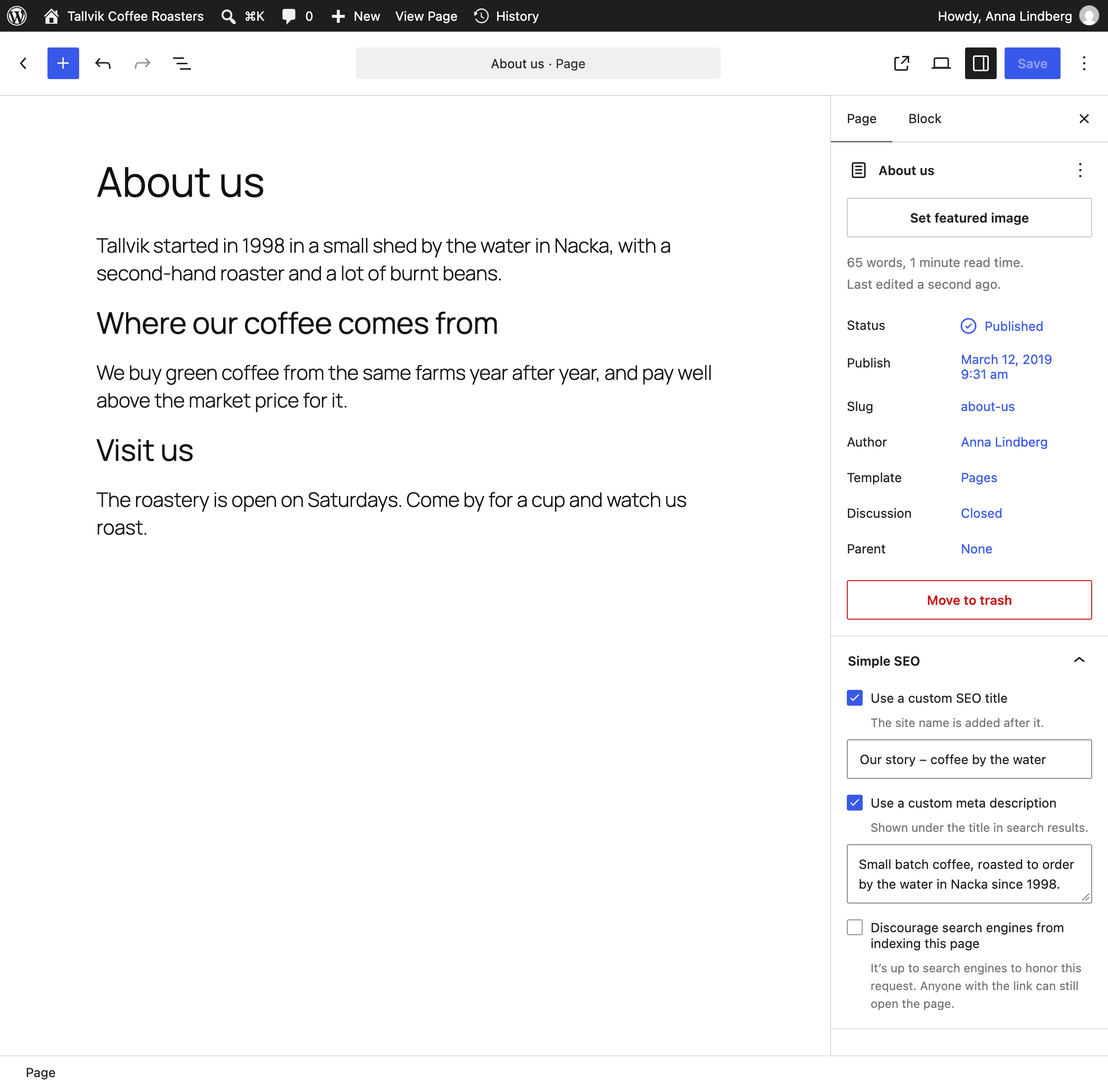
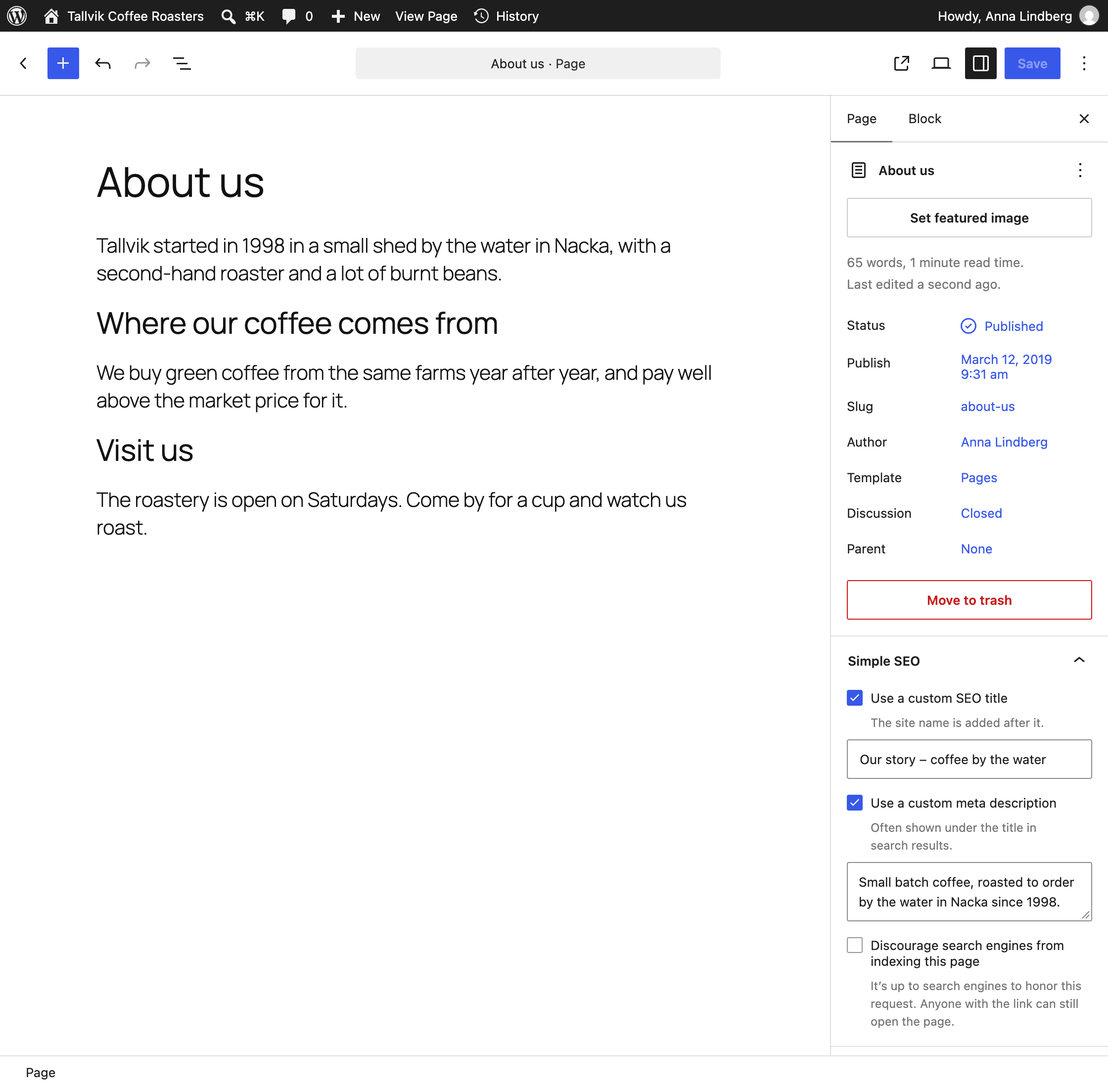
Quieter wording and tip, research doc out of the repo
- Help text and README no longer promise what search engines and apps
  do: "Often shown under the title", links "get" the right tags, no
  llms.txt "for now".
- The Simple History tip is small and grey like help text.
- The SEO research notes moved to the private notes.
- Decision notes in docs and skills no longer name the maintainer.
- Screenshots 1, 4 and 6 retaken.

Changed region(s): [[0.7812, 0.7418, 0.9688, 0.9582]]

diff --git a/build/editor-panel.js b/build/editor-panel.js
@@ -1,2 +1,2 @@
 (()=>{"use strict";const e=window.wp.plugins,s=window.wp.editor,t=window.wp.coreData,i=window.wp.data,o=window.wp.element,l=window.wp.components,n=window.wp.i18n,a=window.ReactJSXRuntime,{otherPlugin:_,simpleHistoryUrl:p,frontPageId:r}=window.simpleSeoEditor||{};function d({label:e,inputLabel:s,help:t,text:i,disabled:n,onChange:_,multiline:p}){const[r,d]=(0,o.useState)(!1),m=!n&&(""!==i||r),c={__nextHasNoMarginBottom:!0,hideLabelFromVision:!0,label:s,value:i,onChange:e=>_({text:e,disabled:!m})};return(0,a.jsxs)(l.Flex,{direction:"column",gap:2,children:[(0,a.jsx)(l.CheckboxControl,{__nextHasNoMarginBottom:!0,label:e,help:t,checked:m,onChange:e=>{d(e),_({text:i,disabled:!e})}}),p?(0,a.jsx)(l.TextareaControl,{...c,className:"simple-seo-autogrow",rows:2}):(0,a.jsx)(l.TextControl,{...c,__next40pxDefaultSize:!0})]})}(0,e.registerPlugin)("simple-seo",{render:function(){const e=(0,i.useSelect)(e=>e(s.store).getCurrentPostType(),[]),m=(0,i.useSelect)(e=>e(s.store).getCurrentPostId(),[]),[c,h]=(0,t.useEntityProp)("postType",e,"meta");if(!c)return null;const u=!c._simple_seo_title_disabled&&""!==c._simple_seo_title||!c._simple_seo_description_disabled&&""!==c._simple_seo_description||!!c._simple_seo_noindex,x=e=>({text:s,disabled:t})=>h({[e]:s,[`${e}_disabled`]:t});return(0,a.jsx)(s.PluginDocumentSettingPanel,{name:"simple-seo",title:(0,n.__)("Simple SEO","simple-seo"),children:(0,a.jsxs)(l.Flex,{direction:"column",gap:4,children:[_&&(0,a.jsx)("p",{className:"components-base-control__help",children:(0,n.sprintf)(/* translators: %s: name of another SEO plugin, like Yoast SEO. */ /* translators: %s: name of another SEO plugin, like Yoast SEO. */
-(0,n.__)("%s is active and handles SEO, so these fields aren’t used.","simple-seo"),_)}),(0,a.jsx)(d,{label:(0,n.__)("Use a custom SEO title","simple-seo"),inputLabel:(0,n.__)("SEO title","simple-seo"),help:m===r?(0,n.__)("Used as the whole title of the front page.","simple-seo"):(0,n.__)("The site name is added after it.","simple-seo"),text:c._simple_seo_title,disabled:c._simple_seo_title_disabled,onChange:x("_simple_seo_title")}),(0,a.jsx)(d,{label:(0,n.__)("Use a custom meta description","simple-seo"),inputLabel:(0,n.__)("Meta description","simple-seo"),help:(0,n.__)("Shown under the title in search results.","simple-seo"),text:c._simple_seo_description,disabled:c._simple_seo_description_disabled,onChange:x("_simple_seo_description"),multiline:!0}),(0,a.jsx)(l.CheckboxControl,{__nextHasNoMarginBottom:!0,label:(0,n.__)("Discourage search engines from indexing this page","simple-seo"),help:(0,n.__)("It’s up to search engines to honor this request. Anyone with the link can still open the page.","simple-seo"),checked:!!c._simple_seo_noindex,onChange:e=>h({_simple_seo_noindex:e})}),p&&u&&(0,a.jsx)("p",{className:"components-base-control__help",children:(0,o.createInterpolateElement)((0,n.__)("Tip: <a>Simple History</a> logs every change to these fields.","simple-seo"),{a:(0,a.jsx)("a",{href:p})})})]})})}})})();
+(0,n.__)("%s is active and handles SEO, so these fields aren’t used.","simple-seo"),_)}),(0,a.jsx)(d,{label:(0,n.__)("Use a custom SEO title","simple-seo"),inputLabel:(0,n.__)("SEO title","simple-seo"),help:m===r?(0,n.__)("Used as the whole title of the front page.","simple-seo"):(0,n.__)("The site name is added after it.","simple-seo"),text:c._simple_seo_title,disabled:c._simple_seo_title_disabled,onChange:x("_simple_seo_title")}),(0,a.jsx)(d,{label:(0,n.__)("Use a custom meta description","simple-seo"),inputLabel:(0,n.__)("Meta description","simple-seo"),help:(0,n.__)("Often shown under the title in search results.","simple-seo"),text:c._simple_seo_description,disabled:c._simple_seo_description_disabled,onChange:x("_simple_seo_description"),multiline:!0}),(0,a.jsx)(l.CheckboxControl,{__nextHasNoMarginBottom:!0,label:(0,n.__)("Discourage search engines from indexing this page","simple-seo"),help:(0,n.__)("It’s up to search engines to honor this request. Anyone with the link can still open the page.","simple-seo"),checked:!!c._simple_seo_noindex,onChange:e=>h({_simple_seo_noindex:e})}),p&&u&&(0,a.jsx)("p",{className:"simple-seo-tip",children:(0,o.createInterpolateElement)((0,n.__)("Tip: <a>Simple History</a> logs every change to these fields.","simple-seo"),{a:(0,a.jsx)("a",{href:p})})})]})})}})})();

diff --git a/.claude/skills/visual-check/capture-screenshots.js b/.claude/skills/visual-check/capture-screenshots.js
@@ -18,9 +18,9 @@
 async ( page ) => {
 	const WP_ENV = 'http://localhost:8315';
 	const CLASSIC = 'http://wp-playground-classiceditor.test:8314';
-	const WP_ENV_PAGE = 160; // "About us" from seed.php on wp-env.
-	const WP_ENV_QUICK_EDIT = 157; // "Our coffees", opened in Quick Edit in shot 2.
-	const CLASSIC_PAGE = 109; // "About us" from seed.php on the Classic Editor site.
+	const WP_ENV_PAGE = 180; // "About us" from seed.php on wp-env.
+	const WP_ENV_QUICK_EDIT = 177; // "Our coffees", opened in Quick Edit in shot 2.
+	const CLASSIC_PAGE = 119; // "About us" from seed.php on the Classic Editor site.
 	const X = 160; // Right of the admin menu.
 	const WIDTH = 1120;
 

diff --git a/js/editor-panel.js b/js/editor-panel.js
@@ -159,7 +159,7 @@ function SimpleSeoPanel() {
 					) }
 					inputLabel={ __( 'Meta description', 'simple-seo' ) }
 					help={ __(
-						'Shown under the title in search results.',
+						'Often shown under the title in search results.',
 						'simple-seo'
 					) }
 					text={ meta._simple_seo_description }
@@ -185,7 +185,7 @@ function SimpleSeoPanel() {
 				/>
 
 				{ simpleHistoryUrl && usesFields && (
-					<p className="components-base-control__help">
+					<p className="simple-seo-tip">
 						{ createInterpolateElement(
 							__(
 								'Tip: <a>Simple History</a> logs every change to these fields.',

diff --git a/.claude/skills/generating-banner/banner.html b/.claude/skills/generating-banner/banner.html
@@ -1,6 +1,6 @@
 <!doctype html>
 <!-- WordPress.org banner for Simple SEO. Rendered by render.js at 772x250 (1x and 2x).
-     Option C from the 2026-09-25 design canvas, picked by Pär after he asked for
+     Option C from the 2026-09-25 design canvas, picked after a request for
      something simpler: the name and the icon's search-result card on flat icon yellow.
      The card bleeds off the bottom edge on purpose. -->
 <html>

diff --git a/src/classic-editor.php b/src/classic-editor.php
@@ -64,7 +64,7 @@ function meta_box( WP_Post $post ): void {
 	text_field( 'title', __( 'Use a custom SEO title', 'simple-seo' ), __( 'SEO title', 'simple-seo' ), $title_on, $title, title_help( $post->ID ) );
 
 	[ $description_on, $description ] = description_field( $post->ID );
-	text_field( 'description', __( 'Use a custom meta description', 'simple-seo' ), __( 'Meta description', 'simple-seo' ), $description_on, $description, __( 'Shown under the title in search results.', 'simple-seo' ), true );
+	text_field( 'description', __( 'Use a custom meta description', 'simple-seo' ), __( 'Meta description', 'simple-seo' ), $description_on, $description, __( 'Often shown under the title in search results.', 'simple-seo' ), true );
 
 	if ( 'page' === $post->post_type ) {
 		text_field(
@@ -88,7 +88,7 @@ function meta_box( WP_Post $post ): void {
 
 	if ( $tip_url && uses_seo_fields( $post->ID ) ) {
 		printf(
-			'<p class="description">%s</p>',
+			'<p class="description simple-seo-tip">%s</p>',
 			sprintf(
 				/* translators: %s: link to the Simple History plugin. */
 				esc_html__( 'Tip: %s logs every change to these fields.', 'simple-seo' ),

diff --git a/src/admin.php b/src/admin.php
@@ -62,6 +62,16 @@ function autogrow_css( string $selector ): string {
 }
 
 /**
+ * CSS for the Simple History tip: small and grey like help text, with a grey link, so it
+ * doesn't compete with the fields.
+ *
+ * @param string $selector The tip's selector.
+ */
+function tip_css( string $selector ): string {
+	return "{$selector} { margin: 0; font-size: 12px; color: #757575; } {$selector} a { color: inherit; }";
+}
+
+/**
  * A few lines of CSS for the Classic box and Quick Edit, on the screens that have them.
  *
  * @param string $hook_suffix The current admin page.
@@ -84,6 +94,6 @@ function enqueue_admin_css( string $hook_suffix ): void {
 		.column-simple_seo .simple-seo-label { color: #646970; }
 		.column-simple_seo .simple-seo-title { font-weight: 600; }
 		.column-simple_seo .dashicons-hidden { font-size: 16px; width: 16px; height: 16px; vertical-align: text-bottom; }
-		' . autogrow_css( '#simple-seo textarea' )
+		' . autogrow_css( '#simple-seo textarea' ) . ' ' . tip_css( '#simple-seo .simple-seo-tip' )
 	);
 }

diff --git a/src/block-editor.php b/src/block-editor.php
@@ -46,8 +46,9 @@ function enqueue_editor_panel(): void {
 
 	wp_set_script_translations( 'simple-seo-editor-panel', 'simple-seo' );
 
-	// The description grows with its text (field-sizing, where supported; elsewhere it scrolls).
+	// The description grows with its text (field-sizing, where supported; elsewhere it scrolls),
+	// and the Simple History tip looks like help text, in grey with a grey link.
 	wp_register_style( 'simple-seo-editor-panel', false, [], SIMPLE_SEO_VERSION );
 	wp_enqueue_style( 'simple-seo-editor-panel' );
-	wp_add_inline_style( 'simple-seo-editor-panel', autogrow_css( '.simple-seo-autogrow textarea' ) );
+	wp_add_inline_style( 'simple-seo-editor-panel', autogrow_css( '.simple-seo-autogrow textarea' ) . ' ' . tip_css( '.simple-seo-tip' ) );
 }

diff --git a/src/simple-history.php b/src/simple-history.php
@@ -1,6 +1,6 @@
 <?php
 /**
- * Simple History (https://simple-history.com/), Pär's other plugin: log changes to the SEO fields.
+ * Simple History (https://simple-history.com/), a plugin by the same author: log changes to the SEO fields.
  *
  * Nothing here runs unless Simple History is active. Without it, the editor fields show one
  * discreet tip to users who can install plugins.

diff --git a/build/editor-panel.asset.php b/build/editor-panel.asset.php
@@ -9,5 +9,5 @@
 		'wp-i18n',
 		'wp-plugins'
 	),
-	'version' => 'cc689ac30a7188e28642'
+	'version' => '094d75bf49ebc7ac4f5c'
 );

diff --git a/CLAUDE.md b/CLAUDE.md
@@ -4,21 +4,21 @@ This file provides guidance to Claude Code (claude.ai/code) when working with co
 
 ## What this is
 
-Simple SEO is a small WordPress plugin by Pär (eskapism), on WordPress.org at https://wordpress.org/plugins/simple-seo/ (slug `simple-seo`, about 300 active installs). It went unreleased from 0.3.4 (October 2012) until 0.3.5 (2026-09-24), the first release of the revival. Private notes (the todo list, drafts, plans) live in Pär's Obsidian vault and are linked into the repo by `scripts/setup-private-docs.sh` as `todo.md`, `todos/` and `CLAUDE.private.md` (all git-ignored). Contributors can ignore them. Never put strategy, site plans or business details in tracked files; they go in those private files.
+Simple SEO is a small WordPress plugin by eskapism, on WordPress.org at https://wordpress.org/plugins/simple-seo/ (slug `simple-seo`, about 300 active installs). It went unreleased from 0.3.4 (October 2012) until 0.3.5 (2026-09-24), the first release of the revival. Private notes (the todo list, drafts, plans) live in the maintainer's Obsidian vault and are linked into the repo by `scripts/setup-private-docs.sh` as `todo.md`, `todos/` and `CLAUDE.private.md` (all git-ignored). Contributors can ignore them. Never put strategy, site plans or business details in tracked files; they go in those private files.
 
 Goals for the revival: a deliberately tiny SEO plugin (a few fields per post, no settings maze, no upsells), working on modern WordPress and PHP, and a friendly home for existing users.
 
-Principles for everything we build (Pär, 2026-09-25):
+Principles for everything we build (2026-09-25):
 
-- **Fast.** No extra SQL queries on the front end: read post meta only for the queried object (the main `WP_Query` already primes the meta cache), prime caches in bulk where lists are involved (as `get_pages` does), no settings page of our own. One exception to "no autoloaded options" (Pär, 2026-09-25): `simple_seo_share_image`, a few bytes, autoloaded so the front end reads it with 0 queries (a non-autoloaded option would cost a query on every page). Load admin CSS/JS only on the editor screens.
+- **Fast.** No extra SQL queries on the front end: read post meta only for the queried object (the main `WP_Query` already primes the meta cache), prime caches in bulk where lists are involved (as `get_pages` does), no settings page of our own. One exception to "no autoloaded options" (2026-09-25): `simple_seo_share_image`, a few bytes, autoloaded so the front end reads it with 0 queries (a non-autoloaded option would cost a query on every page). Load admin CSS/JS only on the editor screens.
 - **Not in the way.** No nags, notices, dashboards, or upsells. Nothing on screens where the fields aren't needed.
 - **Nice to use.** Few fields, clear labels, sensible defaults.
-- **Built for 2026 search.** GEO is mostly plain SEO; no llms.txt, meta keywords or AI scores. Evidence and scope in [`docs/seo-2026-research.md`](docs/seo-2026-research.md).
+- **Built for 2026 search.** GEO is mostly plain SEO; no llms.txt, meta keywords or AI scores. Evidence and scope in the private `todos/seo-2026-research.md`.
 - **AI friendly, not AI first.** Fields are registered post meta exposed over REST, so WP-CLI, the REST API and AI tools can read and write them. No AI-specific features that cost anything for people who don't use them.
 
 ## History
 
-This git repo was created on 2026-09-24 by replaying the WordPress.org SVN trunk history (r279243 to r607674) into git with the original authors, dates, and messages. Git tags `0.1` and `0.3.1` to `0.3.4` point at the matching trunk commits. SVN is still the release channel; GitHub (`bonny/WordPress-Simple-SEO`, renamed from `simple-seo` on 2026-09-26 to match Pär's other plugin repos; private for now) is the source of truth for development.
+This git repo was created on 2026-09-24 by replaying the WordPress.org SVN trunk history (r279243 to r607674) into git with the original authors, dates, and messages. Git tags `0.1` and `0.3.1` to `0.3.4` point at the matching trunk commits. SVN is still the release channel; GitHub (`bonny/WordPress-Simple-SEO`, renamed from `simple-seo` on 2026-09-26 to match the other eskapism plugin repos; private for now) is the source of truth for development.
 
 How old the SEO plugins are, which still live, and their installs and downloads: [`docs/seo-plugin-history.md`](docs/seo-plugin-history.md). The readme's "seven weeks before Yoast SEO" line rests on it.
 
@@ -29,13 +29,13 @@ Released: 0.3.5. `main` holds unreleased 1.0 work.
 - `simple-seo.php` is a bootstrap that must stay parseable by PHP 5.6 (WordPress before 5.2 ignores "Requires PHP" and installs updates anyway). Below WordPress 6.6 or PHP 7.4 it shows an admin notice linking the 0.3.5 zip and loads nothing else. Otherwise it requires the files in `src/`.
 - `src/` is namespaced (`SimpleSEO\`; no other plugin on WordPress.org declares it, checked 2026-09-25 with a case-insensitive regex search of all 76,734 plugins on veloria.dev, API in `PeterBooker/veloria` `docs/api.md`), PHP 7.4 syntax, one file per concern: `meta.php` (fields and getters), `frontend.php` (head output, menu label), `classic-editor.php` (the meta box, saving), `block-editor.php` (loads the panel), `list-table.php` (column and Quick Edit). Keep it tight: functions, no classes or containers until something needs them. YAGNI for features. Style rules (braces not `if (): endif;`, how to output HTML) are in the `php-code-style` skill.
 - Post meta keys:
-  - `_simple_seo_title`, `_simple_seo_description` (strings), their `_simple_seo_title_disabled` / `_simple_seo_description_disabled` flags (boolean, missing = on) and `_simple_seo_noindex` (boolean), registered with `register_post_meta()` and shown in REST in the `edit` context only (Pär, 2026-09-25: "leak as little as possible"). Anonymous requests see none of them; use `?context=edit` with an application password to read them. REST writes need `edit_post`. Read them through `SimpleSEO\get_title()`, `get_description()` and `is_noindex()`, never with raw `get_post_meta()`.
+  - `_simple_seo_title`, `_simple_seo_description` (strings), their `_simple_seo_title_disabled` / `_simple_seo_description_disabled` flags (boolean, missing = on) and `_simple_seo_noindex` (boolean), registered with `register_post_meta()` and shown in REST in the `edit` context only (2026-09-25: "leak as little as possible"). Anonymous requests see none of them; use `?context=edit` with an application password to read them. REST writes need `edit_post`. Read them through `SimpleSEO\get_title()`, `get_description()` and `is_noindex()`, never with raw `get_post_meta()`.
   - Pre-1.0 title: `_simple_seo_use_custom_page_title` (0/1) and `_simple_seo_custom_page_title_value`. Existing sites depend on it, so `get_title()` falls back to it. Any write to `_simple_seo_title` (editor, REST, WP-CLI) deletes the old pair. No bulk migration, no option to track one.
-  - Menu label: `_simple_seo_use_custom_menu_label` (0/1) and `_simple_seo_custom_menu_label_value`, unchanged. Kept for existing users, pages only, Classic meta box only (Pär, 2026-09-25).
-- Link previews (`src/link-previews.php`): Open Graph + `twitter:card` on posts, pages, the blog page and the front page (not archives or search), from the SEO title, description and featured image. On by default, no setting (Pär, 2026-09-25). Turns Jetpack's Open Graph off while ours are on.
-- Settings (`src/settings.php`): a "Simple SEO" section on Settings → General via the Settings API (Pär: looks like core, but users must see it's from our plugin, hence the section heading and "From the Simple SEO plugin."). One field, "Default share image", with the media library like core's Site Icon (`build/share-image-field.js`). Stored as `{ id, url, width, height, alt }` so link previews need no queries; refreshed when that attachment's metadata or alt text changes, removed when it's deleted. Used in link previews when a post has no featured image.
-- Simple History (`src/simple-history.php`, `src/class-simple-history-logger.php`): when it's active, changes to the fields are logged as one "Updated the SEO for …" event per post and request (captured before our keys are written, logged on `shutdown`), with old and new values, each checkbox and its text logged separately (Pär, 2026-09-26: ticking a box on kept text shows "Use a custom SEO title: No → Yes", not the text as new). Action links under the event (`get_action_links()`, Simple History 5.24+): Edit/View <type> and All <types>, following Simple History's `action-links` skill (plain title in the message, no revisions link). Changes of the default share image are logged too (set, changed, removed; not the refresh after an alt-text edit), with Simple History 5.32+'s image diff (size `small`, the default overflows) and a "General settings" link. The logger class is only loaded from `register_simple_history_logger()`, after checking for Simple History 4.0+'s `Logger` class (as CMS Tree Page View does). PHPStan knows the Simple History classes from `tests/phpstan/simple-history-stubs.php`. Without Simple History: one tip line in the editor fields, for users who can install plugins only.
-- Hooks (Pär: "be a nice plugin", let developers modify what we output): filters prefixed `simple_seo_` on every output value, applied right before output, each documented in core's hook docblock style. List and examples in [`docs/hooks.md`](docs/hooks.md); keep it up to date when adding one. Filters on the value, not settings; no actions of our own unless something needs one.
+  - Menu label: `_simple_seo_use_custom_menu_label` (0/1) and `_simple_seo_custom_menu_label_value`, unchanged. Kept for existing users, pages only, Classic meta box only (2026-09-25).
+- Link previews (`src/link-previews.php`): Open Graph + `twitter:card` on posts, pages, the blog page and the front page (not archives or search), from the SEO title, description and featured image. On by default, no setting (2026-09-25). Turns Jetpack's Open Graph off while ours are on.
+- Settings (`src/settings.php`): a "Simple SEO" section on Settings → General via the Settings API (looks like core, but users must see it's from our plugin, hence the section heading and "From the Simple SEO plugin."). One field, "Default share image", with the media library like core's Site Icon (`build/share-image-field.js`). Stored as `{ id, url, width, height, alt }` so link previews need no queries; refreshed when that attachment's metadata or alt text changes, removed when it's deleted. Used in link previews when a post has no featured image.
+- Simple History (`src/simple-history.php`, `src/class-simple-history-logger.php`): when it's active, changes to the fields are logged as one "Updated the SEO for …" event per post and request (captured before our keys are written, logged on `shutdown`), with old and new values, each checkbox and its text logged separately (2026-09-26: ticking a box on kept text shows "Use a custom SEO title: No → Yes", not the text as new). Action links under the event (`get_action_links()`, Simple History 5.24+): Edit/View <type> and All <types>, following Simple History's `action-links` skill (plain title in the message, no revisions link). Changes of the default share image are logged too (set, changed, removed; not the refresh after an alt-text edit), with Simple History 5.32+'s image diff (size `small`, the default overflows) and a "General settings" link. The logger class is only loaded from `register_simple_history_logger()`, after checking for Simple History 4.0+'s `Logger` class (as CMS Tree Page View does). PHPStan knows the Simple History classes from `tests/phpstan/simple-history-stubs.php`. Without Simple History: one tip line in the editor fields, for users who can install plugins only.
+- Hooks ("be a nice plugin", let developers modify what we output): filters prefixed `simple_seo_` on every output value, applied right before output, each documented in core's hook docblock style. List and examples in [`docs/hooks.md`](docs/hooks.md); keep it up to date when adding one. Filters on the value, not settings; no actions of our own unless something needs one.
 - When another SEO plugin is active (`active_seo_plugin()`: Yoast SEO, Rank Math, All in One SEO, SEOPress, The SEO Framework, detected by constants), none of the head output below is added, and the editor fields say which plugin is in charge. The menu label keeps working. Anything new that outputs SEO tags or touches the sitemap must check it too.
 - Front end, reading meta only for the queried post (already cached by the main query):
   - Title: the `single_post_title` filter replaces the post's part, and core adds " – Site name" (this also covers old themes calling `wp_title()`). A static front page never calls `single_post_title`, so `document_title_parts` makes its SEO title the whole title (tagline dropped), and a `wp_title` filter does the same for old themes.
@@ -44,11 +44,11 @@ Released: 0.3.5. `main` holds unreleased 1.0 work.
   - Sitemap: noindexed posts are left out of core's `wp-sitemap.xml` (`wp_sitemaps_posts_query_args`). The noindex meta's sanitize callback stores it as `'1'` or `''`, which the query relies on.
   - The menu label only affects `get_pages()` / `wp_list_pages()`. That includes the Page List block (`wp-includes/blocks/page-list.php` calls `get_pages()`), which an empty Navigation block falls back to: WordPress creates a `wp_navigation` post containing `<!-- wp:page-list /-->` (verified in Twenty Twenty-Three on the php74 site). It does not reach classic menus or Navigation blocks with hand-picked Page Link blocks, which store their own labels.
 - Block editor: `src/block-editor.php` loads `build/editor-panel.js` (source `js/editor-panel.js`) on the post edit screen only. A "Simple SEO" `PluginDocumentSettingPanel` made of core components, reading and writing the meta with `useEntityProp`, so it saves with the post. Same checkbox + text pattern as the Classic box. It renders nothing for post types without `custom-fields` support. Keep it looking like core: stable `@wordpress/components` only (`__experimental*` fails lint), core wording and spacing, one short help line per field, the other-plugin message as a plain help paragraph (core panels don't use Notices). Pass only changed keys to `setMeta()` (meta edits are merged). Checkbox state follows the meta, local state only for "ticked but empty", so undo works. Keep `__nextHasNoMarginBottom` / `__next40pxDefaultSize` until the floor is WordPress 7.0 (default there, warnings without them on 6.7–6.9); never pass `__next40pxDefaultSize` to `TextareaControl`. Reviewed against WP 7.1 and Gutenberg trunk on 2026-09-25: no deprecated APIs, and DataForm isn't usable by plugins yet.
-- Naming (Pär, 2026-09-26, after a UX and an art director review): the block editor panel and the Classic box are "Simple SEO", so users see where they come from; the list column and the Quick Edit group are "SEO", where space is tight. Help text is one line per field (`src/admin.php`: the title help says "whole title" on the static front page, the noindex checkbox and help follow core's Settings → Reading wording, since noindex is a request search engines may ignore: "Discourage search engines from indexing this page" / "It's up to search engines to honor this request. Anyone with the link can still open the page."). The Simple History tip only shows on posts that use the fields.
-- Posts lists (`src/list-table.php`): an "SEO" column right after the title (Pär, 2026-09-26: it's related to the title) (what's used: "Search engines discouraged" first, then "Title:" and "Description:" lines with a muted label (the title text semibold, 600), so each row reads on its own; switched-off text greyed out as "Title (off):" so saved values never seem to vanish; — when nothing is set. Pär picked this on 2026-09-26 from a mockup comparison) and the same checkbox + text fields in Quick Edit, filled by `build/quick-edit.js` from JSON the column keeps in a hidden element. Quick Edit posts the Classic box's field names, so `save_post()` in `classic-editor.php` saves both; Bulk Edit doesn't include them, so it can't touch them. The list query has already loaded the meta: no extra queries. Which post types: `has_seo_fields()` in `meta.php`, shared with the box and the panel.
+- Naming (2026-09-26, after a UX and an art director review): the block editor panel and the Classic box are "Simple SEO", so users see where they come from; the list column and the Quick Edit group are "SEO", where space is tight. Help text is one line per field (`src/admin.php`: the title help says "whole title" on the static front page, the noindex checkbox and help follow core's Settings → Reading wording, since noindex is a request search engines may ignore: "Discourage search engines from indexing this page" / "It's up to search engines to honor this request. Anyone with the link can still open the page."). The Simple History tip only shows on posts that use the fields.
+- Posts lists (`src/list-table.php`): an "SEO" column right after the title (2026-09-26: it's related to the title) (what's used: "Search engines discouraged" first, then "Title:" and "Description:" lines with a muted label (the title text semibold, 600), so each row reads on its own; switched-off text greyed out as "Title (off):" so saved values never seem to vanish; — when nothing is set. picked on 2026-09-26 from a mockup comparison) and the same checkbox + text fields in Quick Edit, filled by `build/quick-edit.js` from JSON the column keeps in a hidden element. Quick Edit posts the Classic box's field names, so `save_post()` in `classic-editor.php` saves both; Bulk Edit doesn't include them, so it can't touch them. The list query has already loaded the meta: no extra queries. Which post types: `has_seo_fields()` in `meta.php`, shared with the box and the panel.
 - Old 0.3.5 titles reach the REST API and the panel through `legacy_title_default()` (`default_post_metadata`). `migrate_legacy_title()` moves them to the new keys on any write of the title or its flag. Moving matters: the REST API skips values equal to the (legacy) default, so ticking the box writes only the flag.
-- Which post types get the fields (Classic box and block editor panel): those where `is_post_type_viewable()` is true, except attachments. That's deliberate (Pär, 2026-09-25): "viewable" means the post type has pages visitors and search engines can reach (`publicly_queryable`, or `public` for built-ins), which is what matters for SEO; checking `public` alone would be wrong for CPTs that set the two differently. Attachments are left out because attachment pages are off by default since WordPress 6.4. The block editor panel also needs `custom-fields` support (see todo.md).
-- Classic Editor: a plain meta box (`src/classic-editor.php`) on every viewable post type, hidden in the block editor with `__back_compat_meta_box`. Each text field is a checkbox + text, both always visible (Pär: as simple as possible, no dimming or auto-ticking); ticked = used, unticking keeps the text; a ticked box with empty text counts as off everywhere (it behaves the same, and the block editor shows it that way after a reload). Stored as the text plus a `_disabled` flag (`save_field()`); `title_field()` / `description_field()` return `[ on, text ]`. The block editor panel is still to come.
+- Which post types get the fields (Classic box and block editor panel): those where `is_post_type_viewable()` is true, except attachments. That's deliberate (2026-09-25): "viewable" means the post type has pages visitors and search engines can reach (`publicly_queryable`, or `public` for built-ins), which is what matters for SEO; checking `public` alone would be wrong for CPTs that set the two differently. Attachments are left out because attachment pages are off by default since WordPress 6.4. The block editor panel also needs `custom-fields` support (see todo.md).
+- Classic Editor: a plain meta box (`src/classic-editor.php`) on every viewable post type, hidden in the block editor with `__back_compat_meta_box`. Each text field is a checkbox + text, both always visible (as simple as possible, no dimming or auto-ticking); ticked = used, unticking keeps the text; a ticked box with empty text counts as off everywhere (it behaves the same, and the block editor shows it that way after a reload). Stored as the text plus a `_disabled` flag (`save_field()`); `title_field()` / `description_field()` return `[ on, text ]`. The block editor panel is still to come.
 - Posts saved before 1.0 have an unchecked-but-kept title as the old flag + value; `title_field()` reads that until the post is saved.
 
 ## Local development
@@ -93,7 +93,7 @@ The smoke test needs Simple SEO and Classic Editor active on the site; only the 
 
 ## Releasing
 
-Use the `cutting-a-release` skill; it's Pär's call, so never bump or tag unless asked. In short: `.github/workflows/deploy.yml` deploys trunk + tag to WordPress.org SVN with the 10up action when a semver tag is pushed, and syncs `.wordpress-org/` (screenshots, Live Preview blueprint) to SVN `assets/`. It needs the `SVN_USERNAME` and `SVN_PASSWORD` repo secrets (set, username `eskapism`). Readme or asset changes between releases go out with the manual `readme-assets.yml` workflow; see the skill. `.distignore` decides what ships.
+Use the `cutting-a-release` skill; it's the maintainer's call, so never bump or tag unless asked. In short: `.github/workflows/deploy.yml` deploys trunk + tag to WordPress.org SVN with the 10up action when a semver tag is pushed, and syncs `.wordpress-org/` (screenshots, Live Preview blueprint) to SVN `assets/`. It needs the `SVN_USERNAME` and `SVN_PASSWORD` repo secrets (set, username `eskapism`). Readme or asset changes between releases go out with the manual `readme-assets.yml` workflow; see the skill. `.distignore` decides what ships.
 
 Until 1.0 is released, don't run `readme-assets.yml`: `.wordpress-org/` already holds the 1.0 screenshots (2026-09-25), and it would publish them next to the live 0.3.5.
 
@@ -103,8 +103,8 @@ Between releases the version stays at the last released one (`bumping-version` s
 
 ## Conventions
 
-- Commit messages: no `Claude-Session:` links (Pär, 2026-09-26: the repo is going public). `Co-Authored-By` is fine.
-- Take tooling and conventions from `../WordPress-CMS-Tree-Page-View` (the most recent plugin Pär revived) and, behind it, Simple History. Keep it proportionate: this plugin is small.
-- Pär posts all public content himself. Draft readme copy, WordPress.org replies, and blog posts into `todo.md` or a `todos/` file and stop.
+- Commit messages: no `Claude-Session:` links (2026-09-26: the repo is going public). `Co-Authored-By` is fine.
+- Take tooling and conventions from `../WordPress-CMS-Tree-Page-View` (the most recently revived sibling plugin) and, behind it, Simple History. Keep it proportionate: this plugin is small.
+- The maintainer posts all public content. Draft readme copy, WordPress.org replies, and blog posts into `todo.md` or a `todos/` file and stop.
 - Readme tone: short, personal, a bit funny. See the example copy in `todo.md` and the draft in `todos/readme-draft.md`.
 - Images: every committed PNG goes through `pngquant` then `oxipng` (see the `visual-check` skill). The icon and banner come from `.wordpress-org/icon.svg` and the `generating-banner` skill; design drafts go in the gitignored `.design-drafts/`.

diff --git a/.claude/skills/cutting-a-release/SKILL.md b/.claude/skills/cutting-a-release/SKILL.md
@@ -7,9 +7,9 @@ description: Use when releasing Simple SEO to WordPress.org, or to recall how a 
 
 Pushing a semver git tag (`0.3.5`, `1.0.0`) runs `.github/workflows/deploy.yml`, which uses `10up/action-wordpress-plugin-deploy` to push trunk + the tag to WordPress.org SVN (slug `simple-seo`) and sync `.wordpress-org/` to SVN `assets/`. `.distignore` decides what goes in the zip. Modeled on CMS Tree Page View's `cutting-a-release` skill.
 
-## This is Pär's call
+## This is the maintainer's call
 
-Do **not** bump, tag or push a release unless Pär asks for it in this conversation. Ongoing work only adds lines under `= Unreleased =` in `readme.txt`. If a release seems due, say so and stop.
+Do **not** bump, tag or push a release unless the maintainer asks for it in this conversation. Ongoing work only adds lines under `= Unreleased =` in `readme.txt`. If a release seems due, say so and stop.
 
 ## Pre-flight
 
@@ -28,7 +28,7 @@ Do **not** bump, tag or push a release unless Pär asks for it in this conversat
 ## Steps
 
 1. Bump: `node .claude/skills/bumping-version/bump.mjs patch` (or `minor`, `major`, `X.Y.Z`).
-2. In `readme.txt`, rename `= Unreleased =` to `= X.Y.Z (Month YYYY) =`, e.g. `= 0.3.5 (September 2026) =`, like Pär's other plugins.
+2. In `readme.txt`, rename `= Unreleased =` to `= X.Y.Z (Month YYYY) =`, e.g. `= 0.3.5 (September 2026) =`, like the other eskapism plugins.
 3. Commit both together: `Release X.Y.Z`.
 4. Push `main`, then the tag:
    ```bash
@@ -39,13 +39,13 @@ Do **not** bump, tag or push a release unless Pär asks for it in this conversat
 
 ## After the deploy
 
-- WordPress.org holds plugin updates for about 24 hours before sites get them. The plugin page shows the new version right away; users get it a day later. For an urgent security fix, email plugins@wordpress.org to ask for an expedited release (Pär does this).
+- WordPress.org holds plugin updates for about 24 hours before sites get them. The plugin page shows the new version right away; users get it a day later. For an urgent security fix, email plugins@wordpress.org to ask for an expedited release (the maintainer does this).
 - The Live Preview button uses `.wordpress-org/blueprints/blueprint.json`, which installs the released version from WordPress.org. It showed up by itself for 0.3.5 (no Advanced view toggle needed); check that the button still opens the demo after a release.
 - The WordPress.org changelog is cut off at 5,000 characters. When Plugin Check warns, move the oldest entries to a `changelog.txt`. Not needed yet.
 
 ## Readme or assets only, between releases
 
-`.github/workflows/readme-assets.yml` publishes `readme.txt` and `.wordpress-org/` from `main` without a new version (trunk, the stable tag's readme, and SVN `assets/`). Manual only, and it's Pär's call like a release:
+`.github/workflows/readme-assets.yml` publishes `readme.txt` and `.wordpress-org/` from `main` without a new version (trunk, the stable tag's readme, and SVN `assets/`). Manual only, and it's the maintainer's call like a release:
 
 ```bash
 gh workflow run readme-assets.yml -R bonny/WordPress-Simple-SEO
@@ -58,4 +58,4 @@ It publishes the readme exactly as it is on `main`. If `= Unreleased =` has line
 
 - The tag must match `[0-9]+.[0-9]+.[0-9]+*`. The old SVN-era tags (`0.1`, `0.3.1` … `0.3.4`) are fine: their commits have no workflow file, so pushing them runs nothing.
 - Keep the classic `== Section ==` / `= 1.0 (Month YYYY) =` readme syntax the file already uses.
-- Replies to the WordPress.org plugin review team are drafts only; write them into `todos/` for Pär.
+- Replies to the WordPress.org plugin review team are drafts only; write them into `todos/` for the maintainer.

diff --git a/.claude/skills/generating-banner/SKILL.md b/.claude/skills/generating-banner/SKILL.md
@@ -9,8 +9,8 @@ Both are rendered from committed sources, like CMS Tree Page View's `generating-
 
 ## Sources
 
-- `.wordpress-org/icon.svg`: the icon, source of truth. A search result card (green link line, blue title, grey text, in Google's order) on a flat sunny yellow (`#FFD23F`) rounded square. Pär picked the card from three drafts on 2026-09-24. It first had a grape to pink gradient; an art director review found that read as a polished SaaS app and blended in with the purple SEO competitors (Yoast, Rank Math), so it went flat yellow: calm but distinct, and between the family's mint Simple History and coral CMS Tree Page View. Keep it flat, no gradients.
-- `banner.html` (this folder): the banner. Just "Simple SEO" (Quicksand) on flat icon yellow `#FFD23F`, with the icon's white search-result card large on the right, bleeding off the bottom edge. No tagline, no screenshot. Pär turned down busier versions (a search result with handwriting, a crossed-out SEO dashboard, "Back from the dead", in 2026-09) and picked this from a round of simpler ones on 2026-09-25: keep it this simple.
+- `.wordpress-org/icon.svg`: the icon, source of truth. A search result card (green link line, blue title, grey text, in Google's order) on a flat sunny yellow (`#FFD23F`) rounded square. The card was picked from three drafts on 2026-09-24. It first had a grape to pink gradient; an art director review found that read as a polished SaaS app and blended in with the purple SEO competitors (Yoast, Rank Math), so it went flat yellow: calm but distinct, and between the family's mint Simple History and coral CMS Tree Page View. Keep it flat, no gradients.
+- `banner.html` (this folder): the banner. Just "Simple SEO" (Quicksand) on flat icon yellow `#FFD23F`, with the icon's white search-result card large on the right, bleeding off the bottom edge. No tagline, no screenshot. Busier versions were turned down (a search result with handwriting, a crossed-out SEO dashboard, "Back from the dead", in 2026-09) and picked this from a round of simpler ones on 2026-09-25: keep it this simple.
 - `social-preview.html` (this folder): the GitHub social preview (1280 × 640), rendered to `.github/social-preview.png`. The banner's look plus one tagline line, "The SEO basics for WordPress. Nothing more.", since a shared GitHub link has no WordPress.org page around it to explain the name. GitHub has no API for it: upload it by hand in the repo's Settings → General → Social preview. The README shows the banner, not this.
 - `fonts/`: Quicksand (headline), Nunito (brand, sub-copy), Caveat (script accent). Copied from CMS Tree Page View so the plugins look like a family; bundled so renders don't depend on system fonts.
 
@@ -29,7 +29,7 @@ The banner is flat color and large type, so use `--quality=90-100` for it: at 80
 
 ## Publish
 
-Commit, then run the manual readme/assets workflow (Pär's call, see `cutting-a-release`), or let the next release carry it. WordPress.org caches assets, so the plugin page can take a while to update.
+Commit, then run the manual readme/assets workflow (the maintainer's call, see `cutting-a-release`), or let the next release carry it. WordPress.org caches assets, so the plugin page can take a while to update.
 
 ## Gotchas
 
